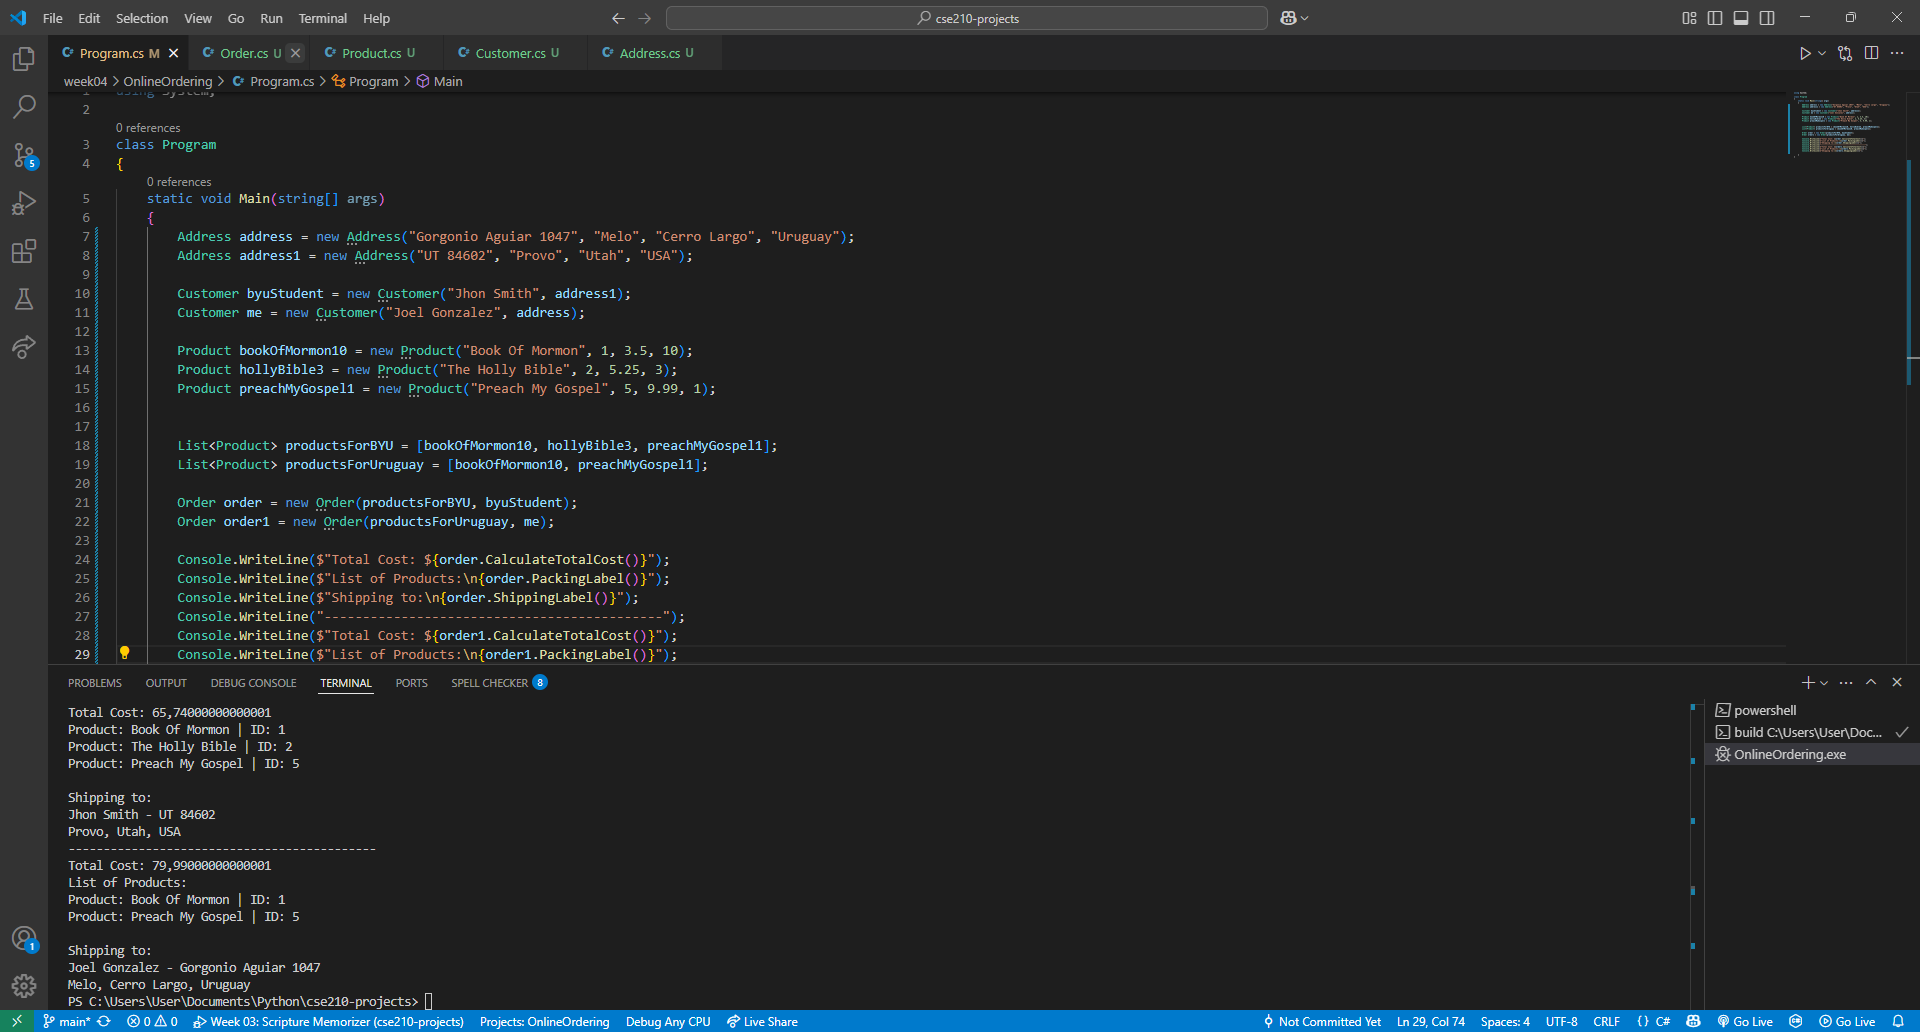
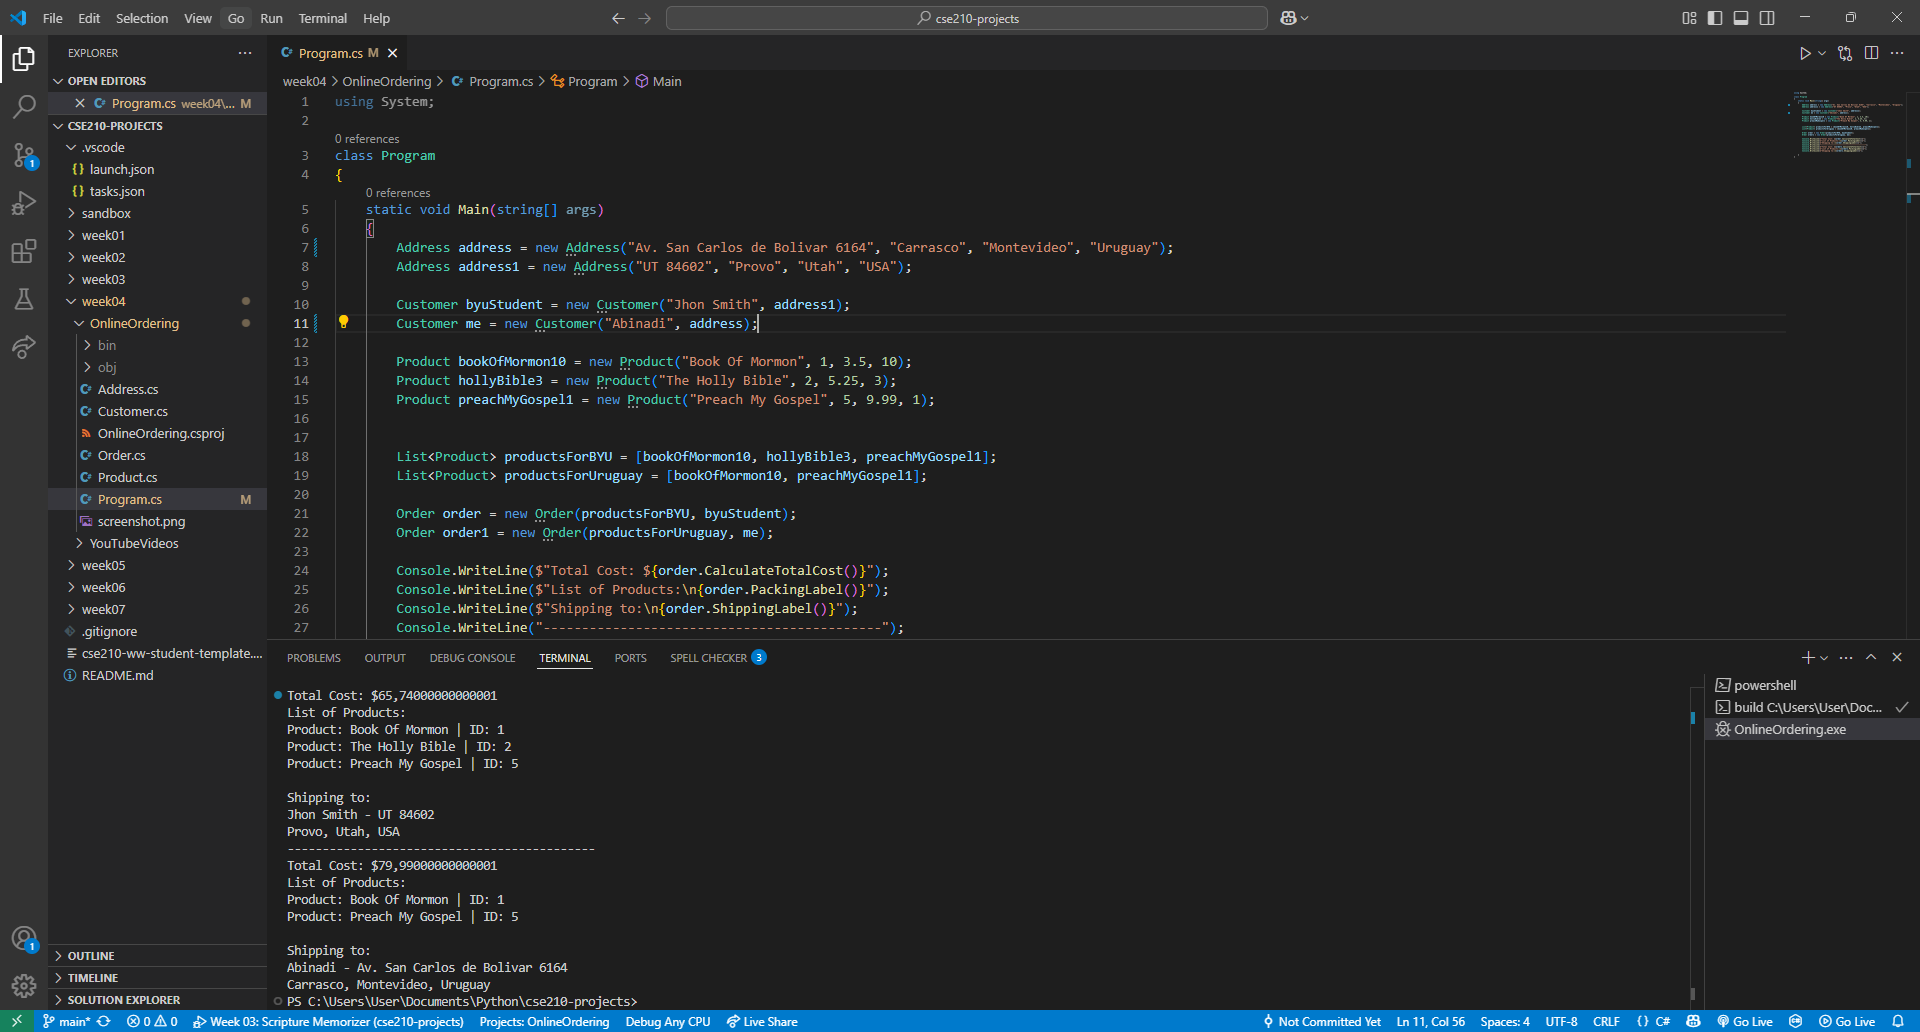
screenshot remplaced

diff --git a/week04/OnlineOrdering/Program.cs b/week04/OnlineOrdering/Program.cs
@@ -4,11 +4,11 @@ class Program
 {
     static void Main(string[] args)
     {
-        Address address = new Address("Gorgonio Aguiar 1047", "Melo", "Cerro Largo", "Uruguay");
+        Address address = new Address("Av. San Carlos de Bolivar 6164", "Carrasco", "Montevideo", "Uruguay");
         Address address1 = new Address("UT 84602", "Provo", "Utah", "USA");
 
         Customer byuStudent = new Customer("Jhon Smith", address1);
-        Customer me = new Customer("Joel Gonzalez", address);
+        Customer me = new Customer("Abinadi", address);
 
         Product bookOfMormon10 = new Product("Book Of Mormon", 1, 3.5, 10);
         Product hollyBible3 = new Product("The Holly Bible", 2, 5.25, 3);
